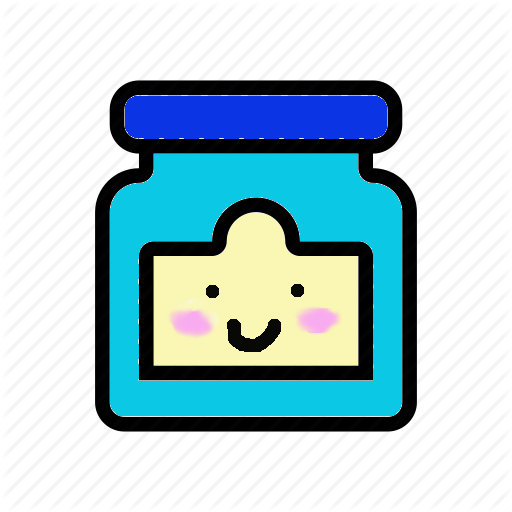
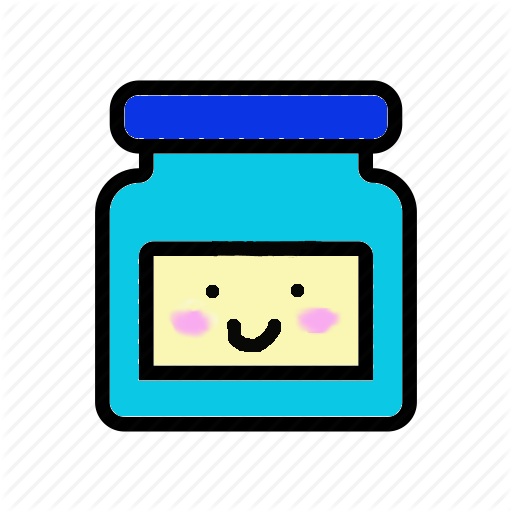
Added a short README and removed the top of the label of the jar

Changed region(s): [[0.4062, 0.375, 0.625, 0.5]]

diff --git a/README.md b/README.md
@@ -1,0 +1,5 @@
+One Sentence Journal: http://nymag.com/scienceofus/2015/03/keep-a-one-sentence-journal-be-happier.html
+
+Happiness Jar 
+
+It saves your happy thoughts away in your browser and you can retrieve them when you are having a bad day. 
